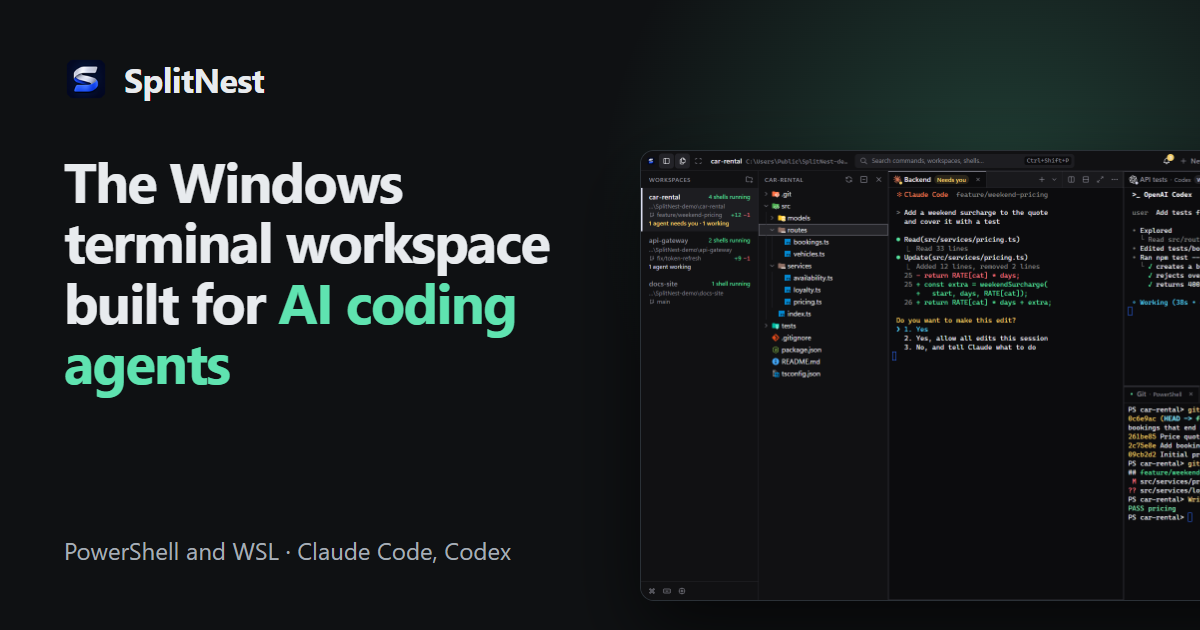
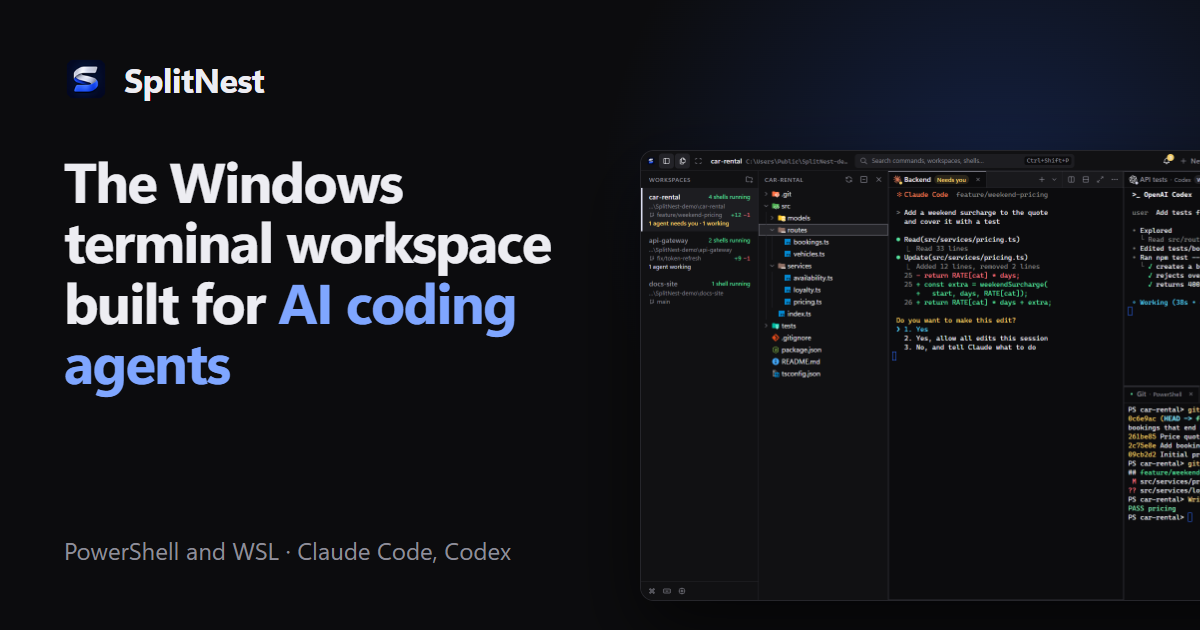
Website: use the app's brand colours and fonts
Colours come from the app's Graphite (dark) and Silver Light (light) themes: silver primary,
Nest Blue focus and links, the app's amber for 'needs you', mint only for success. Segoe UI
Variable and Cascadia Mono as in the app. Social image regenerated in the same palette.

diff --git a/website/src/styles/global.css b/website/src/styles/global.css
@@ -1,41 +1,57 @@
+/* Brand tokens, taken from the app's own themes (src/renderer/features/appearance/themes.ts):
+   dark = Graphite (the default), light = Silver Light. Silver is the primary colour (the logo's
+   white ribbon), Nest Blue the focus and link colour (the logo's blue), amber "needs you", mint
+   only "working"/success, exactly as in the app. */
 :root {
   color-scheme: dark;
-  --bg: #0f1113;
-  --bg-soft: #14171a;
-  --surface: #181c20;
-  --surface-2: #1f2428;
-  --border: #2b3137;
-  --text: #e8ebee;
-  --muted: #a6aeb6;
-  --accent: #5fe3b0;
-  --accent-text: #5fe3b0;
-  --accent-ink: #06241a;
-  --amber: #f5b84b;
-  --amber-text: #f5b84b;
-  --link: #7ce9c1;
-  --code-bg: #0b0d0f;
+  --bg: #0c0c0e;
+  --bg-soft: #111113;
+  --surface: #151517;
+  --surface-2: #1d1d21;
+  --border: #26262b;
+  --border-strong: #36363d;
+  --text: #ededf2;
+  --muted: #8e8e99;
+  --accent: #dbddf0;
+  --accent-hover: #ffffff;
+  --accent-ink: #0c0c0e;
+  --accent-text: #7fa6ff;
+  --focus: #2f6bff;
+  --link: #7fa6ff;
+  --link-hover: #a8c3ff;
+  --amber: #f5d06b;
+  --amber-text: #f5d06b;
+  --success: #5ee0a0;
+  --code-bg: #111113;
   --shadow: 0 24px 60px -24px rgba(0, 0, 0, 0.7);
-  --font: system-ui, -apple-system, 'Segoe UI Variable Text', 'Segoe UI', Roboto, 'Helvetica Neue', Arial, sans-serif;
-  --mono: ui-monospace, 'Cascadia Code', 'Cascadia Mono', Consolas, 'SFMono-Regular', Menlo, monospace;
+  --font: 'Segoe UI Variable Text', 'Segoe UI', system-ui, -apple-system, Roboto, 'Helvetica Neue', Arial, sans-serif;
+  --mono: 'Cascadia Mono', 'Cascadia Code', Consolas, ui-monospace, 'SFMono-Regular', Menlo, monospace;
   --radius: 12px;
   --wrap: 1120px;
 }
 @media (prefers-color-scheme: light) {
   :root {
     color-scheme: light;
-    --bg: #f6f7f8;
-    --bg-soft: #eef0f2;
+    --bg: #f3f4f8;
+    --bg-soft: #eceef4;
     --surface: #ffffff;
-    --surface-2: #f1f3f5;
-    --border: #d5dade;
-    --text: #14181c;
-    --muted: #4b555e;
-    --accent: #2ec98f;
-    --accent-text: #0a7a55;
-    --amber-text: #8a5a00;
-    --link: #0a7a55;
-    --code-bg: #eceff1;
-    --shadow: 0 24px 50px -28px rgba(20, 30, 40, 0.35);
+    --surface-2: #e2e6f0;
+    --border: #dde1ea;
+    --border-strong: #c9ced9;
+    --text: #14161c;
+    --muted: #5e6475;
+    --accent: #1b1e26;
+    --accent-hover: #2e3340;
+    --accent-ink: #ffffff;
+    --accent-text: #2456d6;
+    --focus: #2f6bff;
+    --link: #2456d6;
+    --link-hover: #1a43b0;
+    --amber: #9a6b00;
+    --amber-text: #9a6b00;
+    --success: #0f8a55;
+    --code-bg: #eceef4;
+    --shadow: 0 24px 50px -28px rgba(20, 22, 28, 0.3);
   }
 }
 
@@ -53,8 +69,9 @@ body {
 }
 img { max-width: 100%; height: auto; display: block; }
 a { color: var(--link); text-underline-offset: 0.18em; }
+a:hover { color: var(--link-hover); }
 a:hover { text-decoration-thickness: 2px; }
-:focus-visible { outline: 3px solid var(--accent); outline-offset: 3px; border-radius: 4px; }
+:focus-visible { outline: 3px solid var(--focus); outline-offset: 3px; border-radius: 4px; }
 code, kbd, pre { font-family: var(--mono); font-size: 0.9em; }
 code { background: var(--code-bg); border: 1px solid var(--border); padding: 0.1em 0.38em; border-radius: 6px; }
 pre { background: var(--code-bg) !important; border: 1px solid var(--border); border-radius: var(--radius); padding: 1rem 1.1rem; overflow-x: auto; line-height: 1.5; }
@@ -91,7 +108,7 @@ li { margin-bottom: 0.35em; }
 .btn { display: inline-flex; align-items: center; justify-content: center; gap: 0.5rem; padding: 0.8rem 1.35rem; border-radius: 10px; font-weight: 650; text-decoration: none; border: 1px solid var(--border); color: var(--text); background: var(--surface); font-size: 1rem; line-height: 1.2; }
 .btn:hover { background: var(--surface-2); }
 .btn-primary { background: var(--accent); color: var(--accent-ink); border-color: transparent; }
-.btn-primary:hover { background: var(--accent); filter: brightness(1.07); }
+.btn-primary:hover { background: var(--accent-hover); }
 .btn-lg { padding: 0.95rem 1.6rem; font-size: 1.08rem; }
 .btn small { font-weight: 500; opacity: 0.8; }
 .cta-row { display: flex; flex-wrap: wrap; gap: 0.75rem; align-items: center; }
@@ -139,7 +156,7 @@ a.card .more { color: var(--link); font-weight: 600; font-size: 0.95rem; }
 .chips.center { justify-content: center; }
 
 .badge-needs { color: var(--amber-text); font-weight: 650; }
-.badge-ok { color: var(--accent-text); font-weight: 650; }
+.badge-ok { color: var(--success); font-weight: 650; }
 
 /* Steps */
 .steps { counter-reset: s; list-style: none; padding: 0; display: grid; gap: 1.1rem; grid-template-columns: repeat(auto-fit, minmax(min(100%, 300px), 1fr)); }
@@ -164,7 +181,7 @@ a.card .more { color: var(--link); font-weight: 600; font-size: 0.95rem; }
 .prose th, .doc th { background: var(--surface-2); }
 .callout { border: 1px solid color-mix(in srgb, var(--amber) 50%, var(--border)); background: color-mix(in srgb, var(--amber) 9%, var(--surface)); border-radius: var(--radius); padding: 1rem 1.2rem; margin: 1.4rem 0; }
 .callout p:last-child { margin-bottom: 0; }
-.callout.ok { border-color: color-mix(in srgb, var(--accent) 45%, var(--border)); background: color-mix(in srgb, var(--accent) 8%, var(--surface)); }
+.callout.ok { border-color: color-mix(in srgb, var(--success) 45%, var(--border)); background: color-mix(in srgb, var(--success) 8%, var(--surface)); }
 .related { margin-top: 3rem; padding-top: 1.5rem; border-top: 1px solid var(--border); }
 details.faq { background: var(--surface); border: 1px solid var(--border); border-radius: var(--radius); padding: 0.9rem 1.2rem; margin-bottom: 0.7rem; }
 details.faq summary { cursor: pointer; font-weight: 650; }
